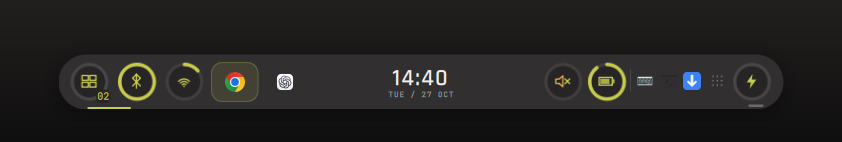
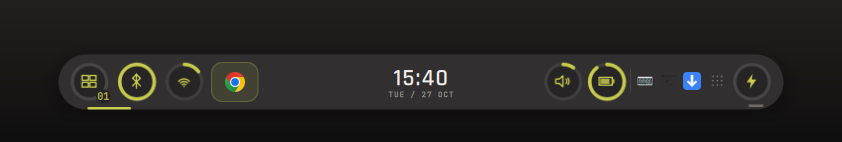
fix: keep bar end caps unclipped and pixel-aligned at fractional scaling; release 0.1.17

diff --git a/qml/Main.qml b/qml/Main.qml
@@ -21,11 +21,19 @@ QW.Window {
     readonly property var screenInfo: root.screen
     readonly property int screenW: screenInfo ? screenInfo.width : 1920
     readonly property int screenH: screenInfo ? screenInfo.height : 1080
-    readonly property int expandedWidth: Math.min(Theme.barWidth, screenW - 48)
+    readonly property real expandedWidth: alignedBarWidth(Math.min(Theme.barWidth, screenW - 48))
     // The tallest panel is 470px; this is enough for the bar and all panels.
     // Keeping the transparent layer shorter saves a large full-screen buffer.
     readonly property int hudHeight: Math.min(screenH, 620)
-    readonly property int collapsedWidth: 108
+    // Align the physical bar width to an even pixel count. At 125% scaling an
+    // odd physical width leaves both end caps on half pixels, which makes one
+    // side look softer/cut depending on the compositor's sampling.
+    function alignedBarWidth(base) {
+        const dpr = root.screen ? root.screen.devicePixelRatio : 1
+        return Math.round(base * dpr / 2) * 2 / dpr
+    }
+
+    readonly property real collapsedWidth: alignedBarWidth(108)
     readonly property int barHeight: Theme.barHeight
     readonly property int bottomGap: 10
     readonly property bool overlay: activePanel.length > 0
@@ -61,7 +69,7 @@ QW.Window {
     property real clockOpacity: 1
     property string capsuleOsdKind: "volume"
 
-    readonly property int barWidth: barExpanded ? expandedWidth : collapsedWidth
+    readonly property real barWidth: barExpanded ? expandedWidth : collapsedWidth
     readonly property bool hudHidden: WindowModel.fullScreenActive
 
     onHudHiddenChanged: {
@@ -143,6 +151,8 @@ QW.Window {
     }
 
     function scheduleCollapse() {
+        if (App.previewPanel === "expanded")
+            return
         if (!overlay && !groupPopupVisible)
             collapseTimer.restart()
     }
@@ -553,7 +563,6 @@ QW.Window {
         anchors.horizontalCenter: parent.horizontalCenter
         y: root.height - root.barHeight - root.bottomGap
         z: 20
-        clip: true
 
         Behavior on width {
             NumberAnimation { duration: 180; easing.type: Easing.OutCubic }
@@ -594,6 +603,14 @@ QW.Window {
             decorations: root.barExpanded
             shadow: false
         }
+
+        // Content is clipped to the capsule, while the rounded frame itself
+        // is not clipped by the bar's bounding rectangle. That keeps both
+        // antialiased end caps symmetric.
+        Item {
+            id: barContent
+            anchors.fill: parent
+            clip: true
 
         // Collapsed state: time only. The volume OSD cross-fades over it.
         Column {
@@ -941,6 +958,7 @@ QW.Window {
                 active: root.activePanel === "power"
                 onClicked: root.togglePanel("power", powerButton)
             }
+        }
         }
     }
 

diff --git a/src/main.cpp b/src/main.cpp
@@ -34,7 +34,7 @@ int main(int argc, char **argv)
     QGuiApplication app(argc, argv);
     QGuiApplication::setApplicationName(QStringLiteral("Endfield Tray"));
     QGuiApplication::setApplicationDisplayName(QStringLiteral("Endfield Tray"));
-    QGuiApplication::setApplicationVersion(QStringLiteral("0.1.16"));
+    QGuiApplication::setApplicationVersion(QStringLiteral("0.1.17"));
     QGuiApplication::setOrganizationName(QStringLiteral("EndfieldTray"));
     QGuiApplication::setDesktopFileName(QStringLiteral("endfield-tray"));
 

diff --git a/README.md b/README.md
@@ -1,6 +1,6 @@
 # Endfield Tray
 
-![Version](https://img.shields.io/badge/version-0.1.16-C8CC4D?style=flat-square)
+![Version](https://img.shields.io/badge/version-0.1.17-C8CC4D?style=flat-square)
 ![Platform](https://img.shields.io/badge/platform-KDE%20Plasma%206%20%2F%20Wayland-312F30?style=flat-square)
 ![License](https://img.shields.io/badge/license-MIT-AEB23F?style=flat-square)
 
